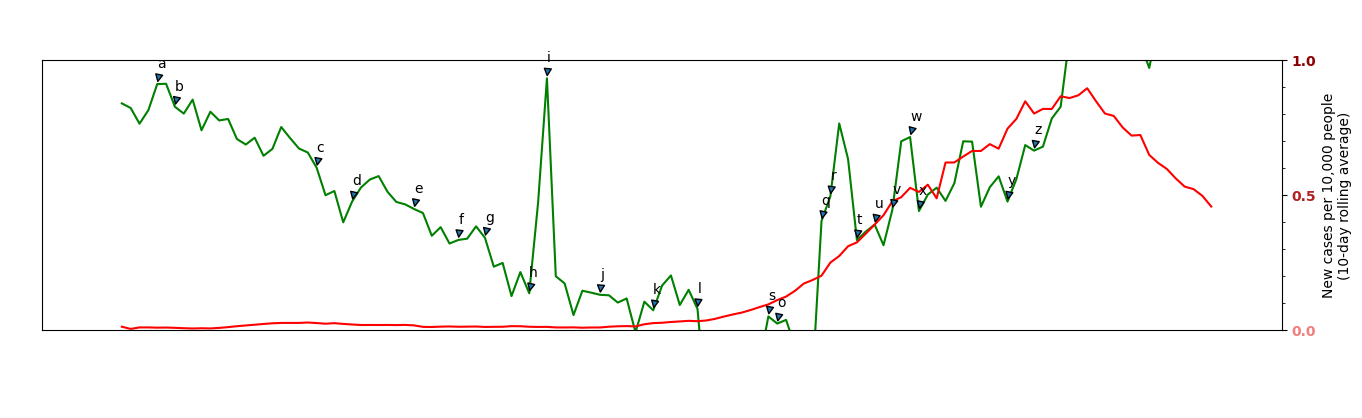
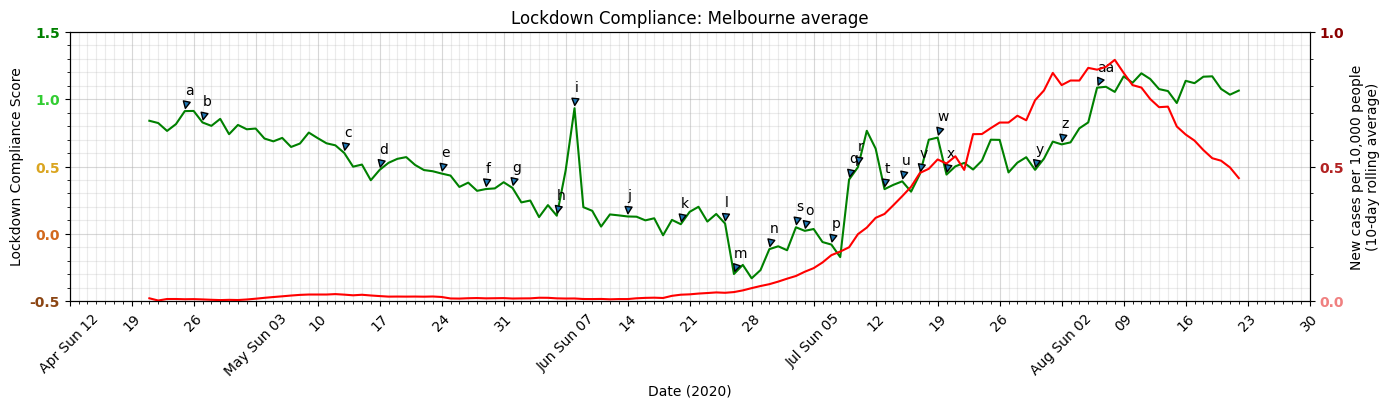
Automatic push.

diff --git a/update.py b/update.py
@@ -11,32 +11,33 @@ aggTypes = {
     }
 
 # absLookup = produce.get_abs_lookup(aggTypes, refresh = True)
-absLookup = produce.get_abs_lookup({'lga', 'sa2'}, refresh = True)
-for region in regions:
-    for aggType in aggTypes:
-        try:
-            mob = produce.get_mob_date(
-                region,
-                aggType,
-                get = False,
-                refresh = True,
-                override = False
-                )
-            produce.make_mob_plots(
-                mob,
-                region,
-                aggType,
-                )
-            produce.make_mob_dateMap(
-                mob,
-                region,
-                aggType,
-                )
-        except NoData:
-            print("No data currently available for:", region)
-        except:
-            print("Something went wrong with:", region, aggType)
+# absLookup = produce.get_abs_lookup({'lga', 'sa2'}, refresh = True)
 
-produce.make_meldash()
+# for region in regions:
+#     for aggType in aggTypes:
+#         try:
+#             mob = produce.get_mob_date(
+#                 region,
+#                 aggType,
+#                 get = False,
+#                 refresh = True,
+#                 override = False
+#                 )
+#             produce.make_mob_plots(
+#                 mob,
+#                 region,
+#                 aggType,
+#                 )
+#             produce.make_mob_dateMap(
+#                 mob,
+#                 region,
+#                 aggType,
+#                 )
+#         except NoData:
+#             print("No data currently available for:", region)
+#         except:
+#             print("Something went wrong with:", region, aggType)
+
+# produce.make_meldash()
 
 analysis.update_melsummary()

diff --git a/analysis.py b/analysis.py
@@ -290,8 +290,8 @@ def update_melsummary():
             ticklabel.set_fontweight('heavy')
 
     canvas = Canvas(size = (16, 3.5))
-    ax1 = canvas.make_ax()
-    ax2 = canvas.make_ax()
+    ax1 = canvas.make_ax(name = 'Lockdown Score')
+    ax2 = canvas.make_ax(name = 'COVID Cases')
     ax1.set_title('Lockdown Compliance: Melbourne average')
     tweakLims = (
         dates.min() - pd.DateOffset(days = 0.5),
